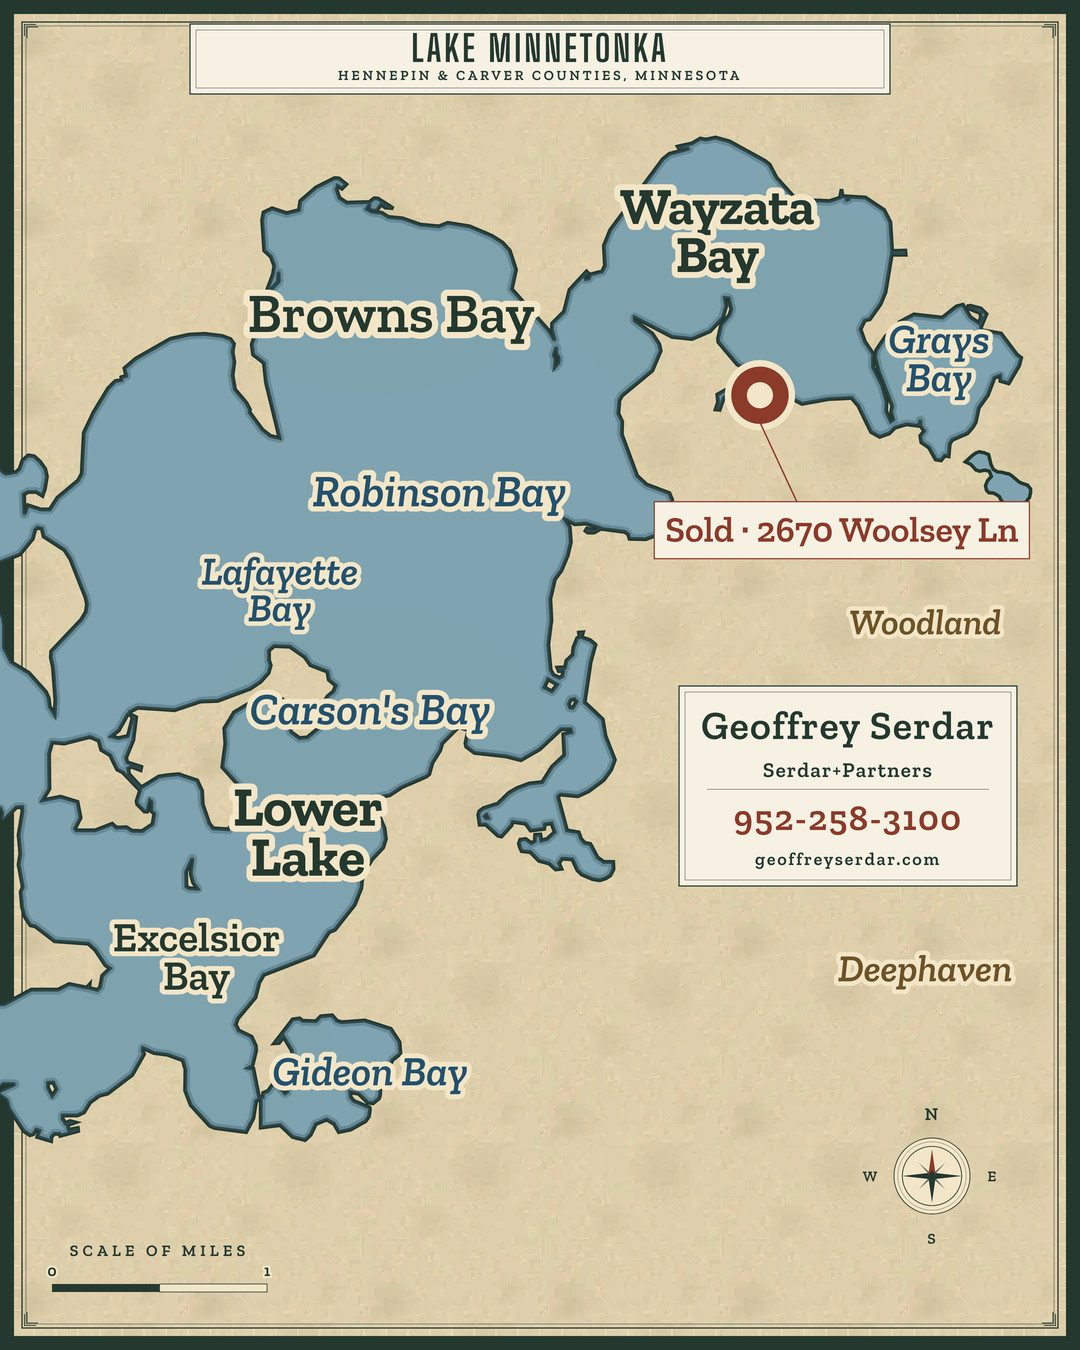
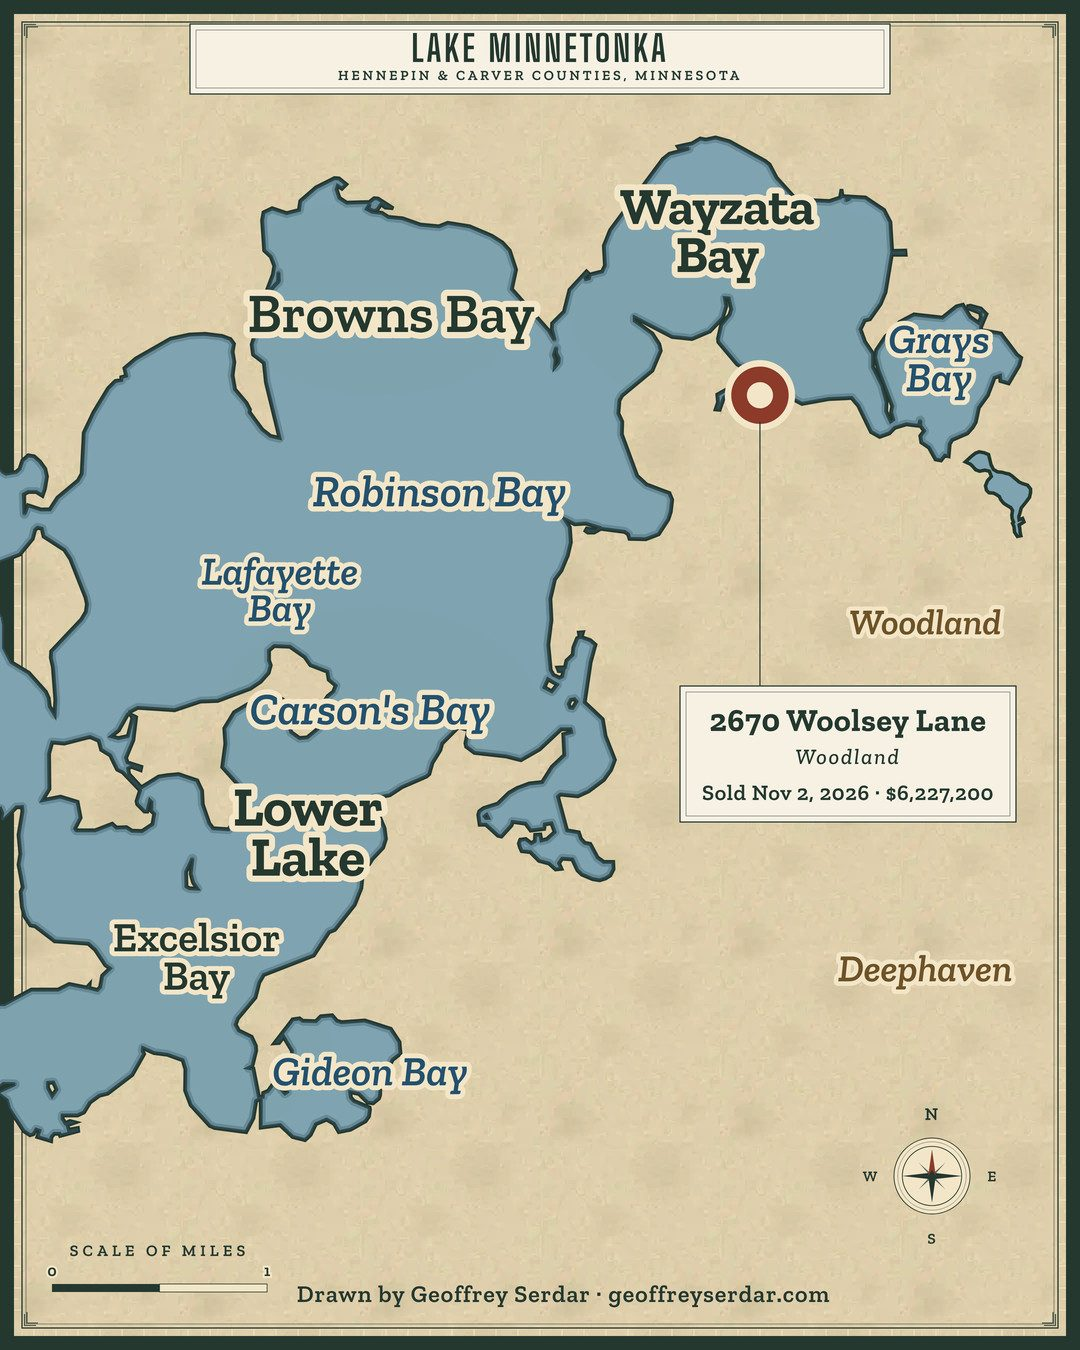
Local Log in-place update 2026-11-17__x__wayzata-bay-woolsey-point-sale: new X URL, map v10, one commit

Changed region(s): [[0.6111, 0.5289, 0.9472, 0.6844], [0.5806, 0.3111, 0.9778, 0.4356], [0.275, 0.9333, 0.7639, 0.9644]]

diff --git a/local-log/index.html b/local-log/index.html
@@ -55,7 +55,7 @@
             "name": "Geoffrey Serdar",
             "url": "https://geoffreyserdar.com/"
           },
-          "url": "https://x.com/GeoffreySerdar/status/2122843810950725683",
+          "url": "https://x.com/GeoffreySerdar/status/2122866510917947595",
           "image": "https://geoffreyserdar.com/local-log/media/2026-11-17__x__wayzata-bay-woolsey-point-sale/01-wayzata-bay-woolsey-point-sale.jpg"
         }
       },
@@ -5481,7 +5481,7 @@ body{padding-top:calc(52px + env(safe-area-inset-top))}
   <div class="gallery"><img src="media/2026-11-17__x__wayzata-bay-woolsey-point-sale/01-wayzata-bay-woolsey-point-sale.jpg" alt="Wayzata Bay, Nov 17, 2026 (1)" loading="lazy" width="720" height="480">
 <img src="media/2026-11-17__x__wayzata-bay-woolsey-point-sale/02-wayzata-bay-woolsey-point-sale.jpg" alt="Wayzata Bay, Nov 17, 2026 (2)" loading="lazy" width="720" height="480"></div>
   
-  <p class="entry-links"><a class="entry-link" href="https://x.com/GeoffreySerdar/status/2122843810950725683" rel="noopener noreferrer">View on X</a></p>
+  <p class="entry-links"><a class="entry-link" href="https://x.com/GeoffreySerdar/status/2122866510917947595" rel="noopener noreferrer">View on X</a></p>
 </article>
 
 <article class="entry" id="2026-11-17__x__minnewashta-ghost-village">
